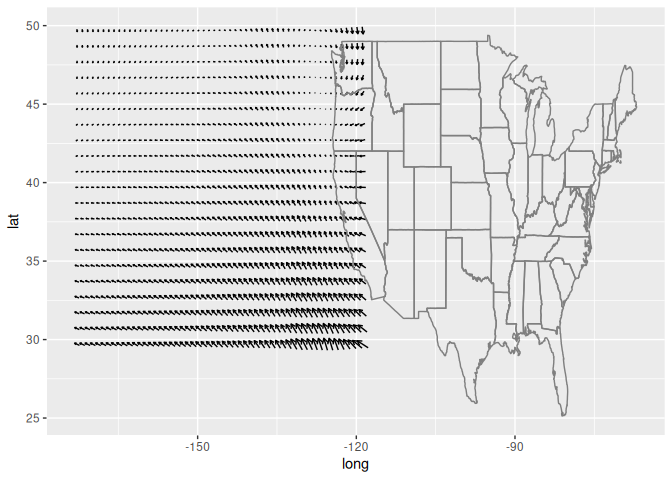
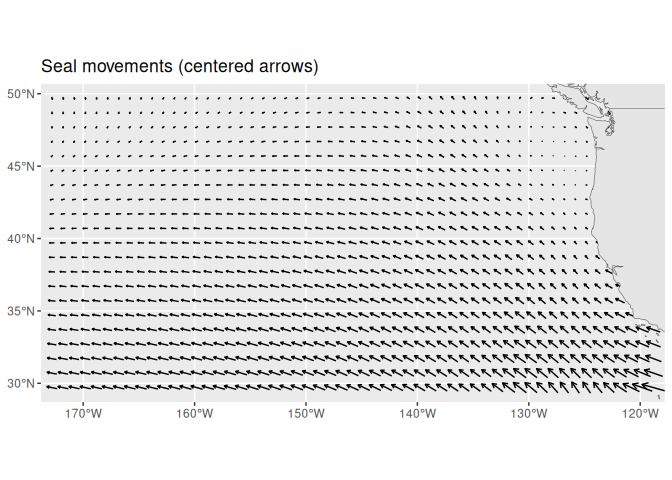
Update README maps examples to use spatial coordinates Ref #12

diff --git a/README.md b/README.md
@@ -44,7 +44,7 @@ automatically adjusted to fit within the grid.
 ``` r
 library(ggplot2)
 library(ggquiver)
-expand.grid(x=seq(0,pi,pi/12), y=seq(0,pi,pi/12)) %>%
+expand.grid(x=seq(0,pi,pi/12), y=seq(0,pi,pi/12)) |> 
   ggplot(aes(x=x,y=y,u=cos(x),v=sin(y))) +
   geom_quiver()
 ```
@@ -56,9 +56,17 @@ appropriately scaled arrowhead sizes. Here, the vecsize is set to zero
 to not resize the vectors.
 
 ``` r
-ggplot(seals, aes(x=long, y=lat, u=delta_long, v=delta_lat)) + 
-  geom_quiver(vecsize=0) + 
-  borders("state")
+library(maps)
+world <- sf::st_as_sf(map('world', plot = FALSE, fill = TRUE))
+
+ggplot(seals) + 
+  geom_quiver(
+    aes(x=long, y=lat, u=delta_long, v=delta_lat),
+    vecsize=0
+  ) + 
+  geom_sf(data = world) +
+  coord_sf(xlim = c(-173.8, -117.8), ylim = c(28.7, 50.7), expand = FALSE) + 
+  labs(title = "Seal movements", x = NULL, y = NULL)
 ```
 
 ![](man/figures/README-sealplot-1.png)
@@ -67,9 +75,14 @@ Quiver plot arrows can be centered about x and y coordinates, which is
 useful when working with maps and scaled vectors.
 
 ``` r
-ggplot(seals, aes(x=long, y=lat, u=delta_long, v=delta_lat)) + 
-  geom_quiver(vecsize=0, center = TRUE) + 
-  borders("state")
+ggplot(seals) + 
+  geom_quiver(
+    aes(x=long, y=lat, u=delta_long, v=delta_lat),
+    vecsize=0, center = TRUE
+  ) + 
+  geom_sf(data = world) +
+  coord_sf(xlim = c(-173.8, -117.8), ylim = c(28.7, 50.7), expand = FALSE) + 
+  labs(title = "Seal movements (centered arrows)", x = NULL, y = NULL)
 ```
 
 ![](man/figures/README-sealplot-centered-1.png)
